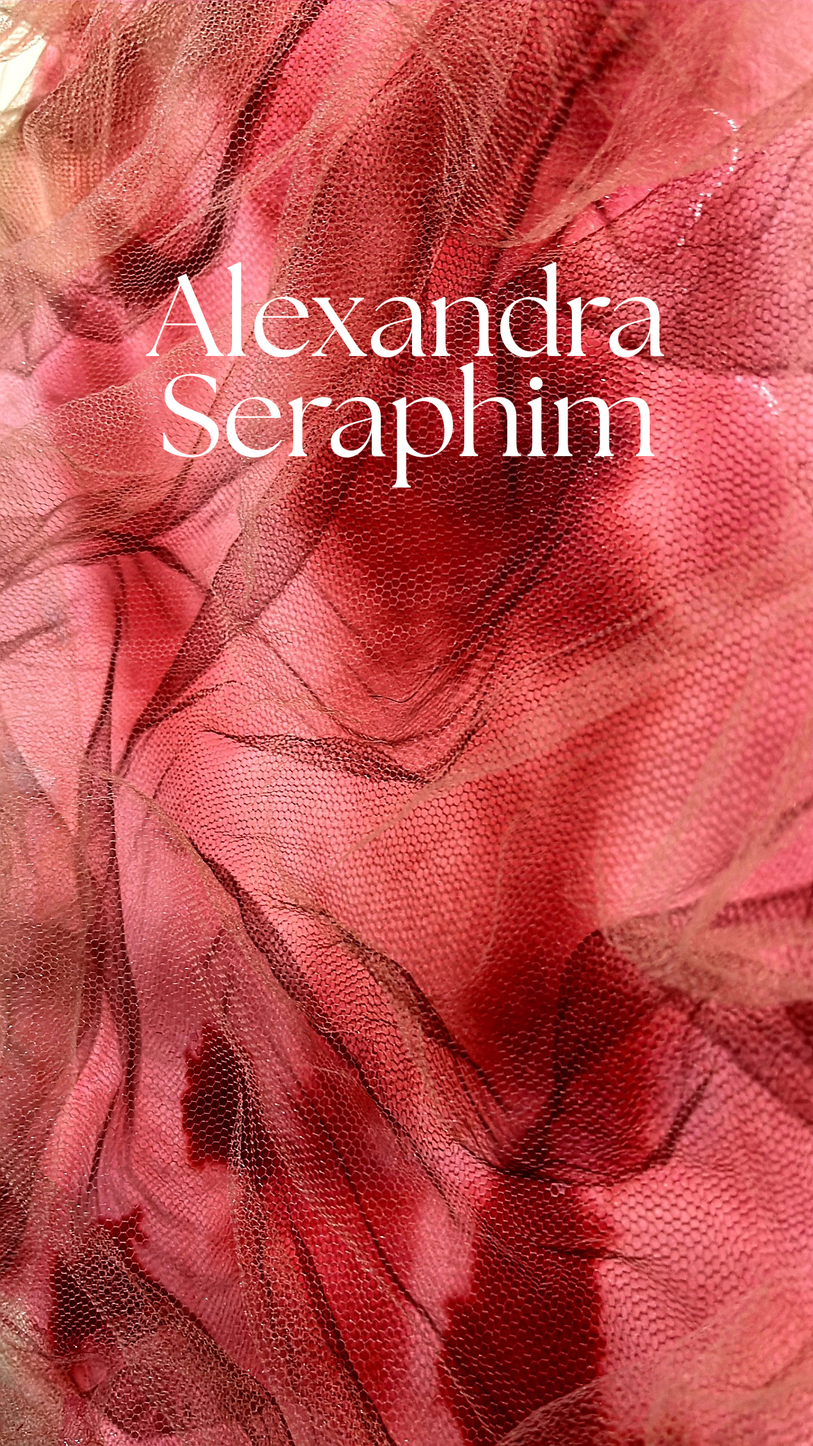
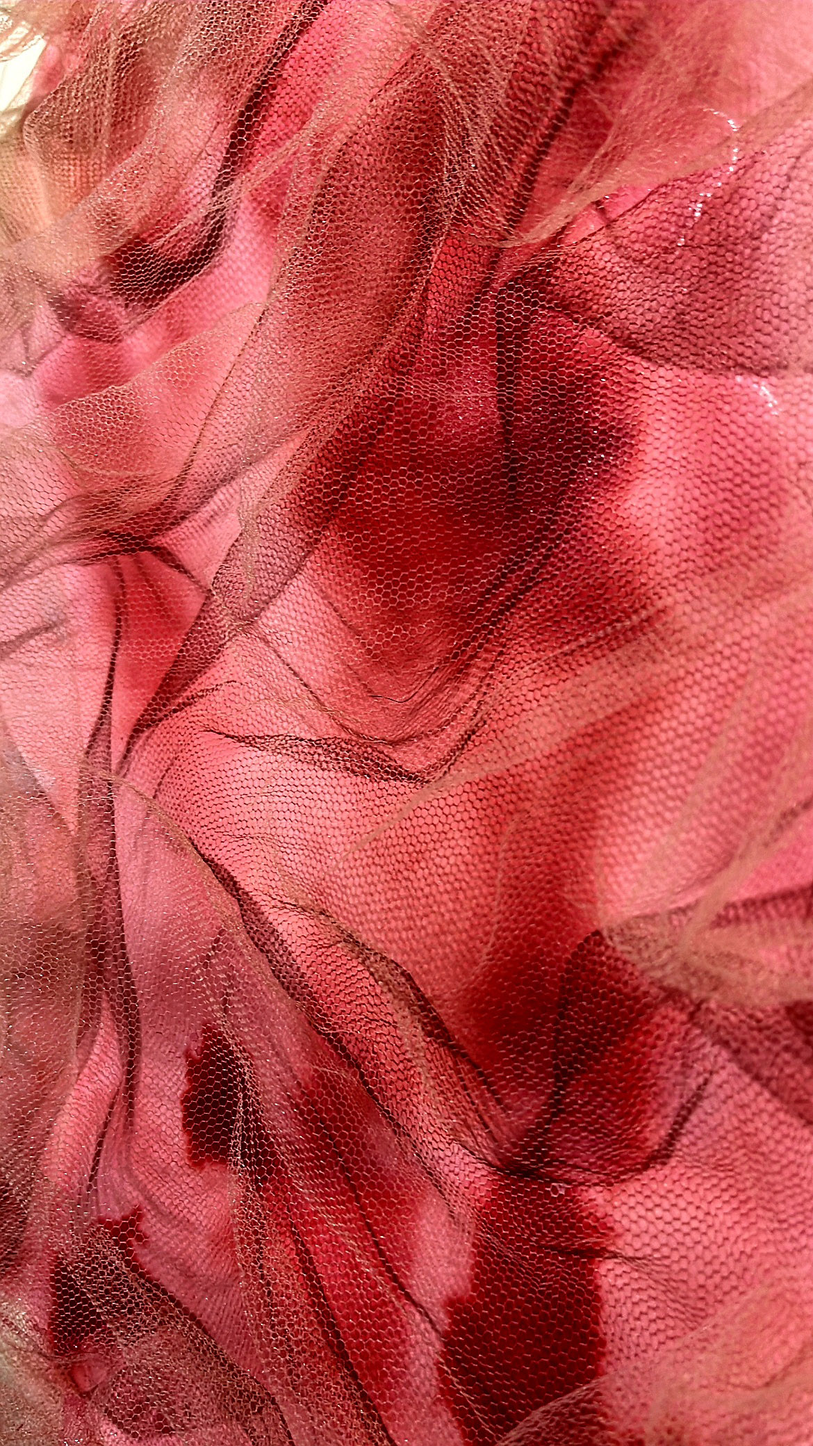
fixed pc

Changed region(s): [[0.1846, 0.1875, 0.5846, 0.3438], [0.5846, 0.1875, 0.8308, 0.3125], [0.2154, 0.1875, 0.2462, 0.2188]]

diff --git a/style.css b/style.css
@@ -25,9 +25,11 @@ body {
 h1 {
     position: absolute;
     top: 3vh;
-    font-size: 9vw;
-    text-shadow: 0 1px 20px black;
     color: white;
+    font-weight: 100;
+    font-size: 8vh;
+    margin-top: 15vh;
+    line-height: 7vh;
 }
 
 main {
@@ -66,4 +68,14 @@ a {
     color: white;
     font-size: 1.5em;
     text-align: center;
+}
+
+@media screen and (min-width: 600px) {
+    main {
+        width: 500px !important;
+    }
+
+    body {
+        background-image: url(bjpc.jpg);
+    }
 }

diff --git a/index.html b/index.html
@@ -8,6 +8,7 @@
 </head>
 <body>
     <main>
+        <h1>Alexandra <br> Seraphim</h1>
         <div class="wrapper">
             <div class="btn"><a href="https://www.instagram.com/alexandra_seraphim">Instagram</a></div>
             <div class="btn"><a href="#">Portfolio</a></div>
